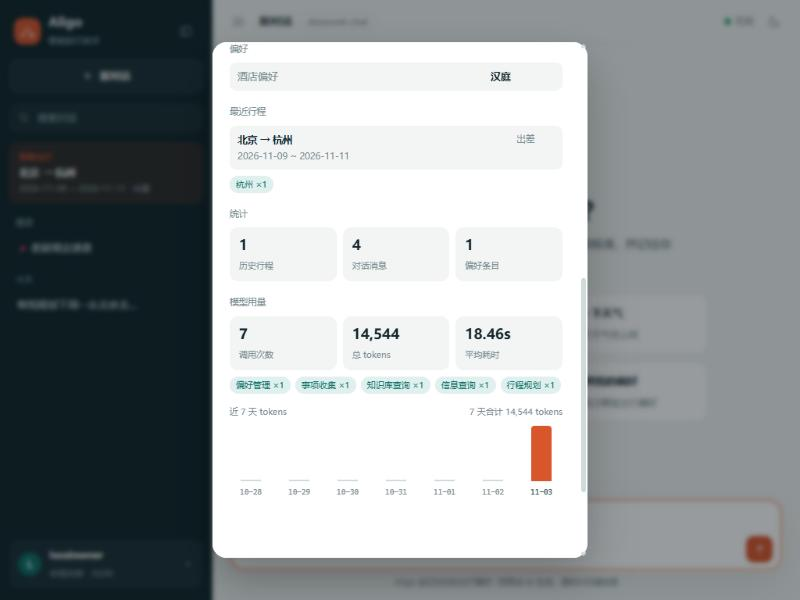
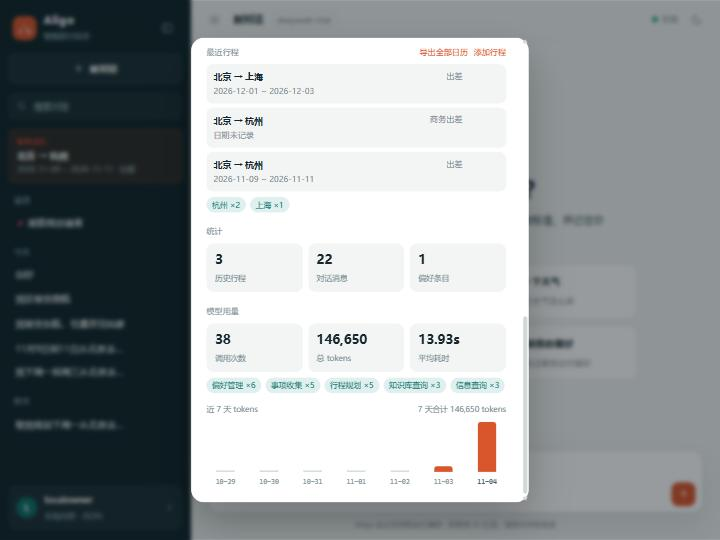
fix(web): 行程标题操作按钮间距并更新记忆面板截图 (#100)
- 「添加行程 / 导出全部日历」两个浮动按钮增加 8px 间距
- 刷新 README 记忆面板截图（含添加/编辑行程后的界面）
- CHANGELOG / README 截图说明更新

diff --git a/webapp/static/style.css b/webapp/static/style.css
@@ -1179,6 +1179,7 @@ mark { background: rgba(224, 85, 43, 0.2); color: inherit; border-radius: 3px; p
 /* 行程小节标题右侧的「导出全部日历」 */
 .trip-export {
   float: right;
+  margin-left: 8px;
   padding: 0;
   border: 0;
   background: none;

diff --git a/CHANGELOG.md b/CHANGELOG.md
@@ -33,6 +33,7 @@
 - CLI 行程去重：`python cli.py trips-dedupe <user_id>` 清理去重功能上线前已存在的重复行程（保留最早一条，统计同步更新）
 - 行程去重 / CLI 健壮性：删除前复核保留行程仍存在（并发删除时不误删仅剩副本），删除失败返回 1；PostgreSQL 配置错误回退本地 JSON 时拒绝执行；ICS 文本转义孤立 CR
 - 行程管理：记忆面板可删除误记录的行程（`DELETE /api/trips/{id}`），JSON / PostgreSQL 同步更新统计与常去目的地
+- 记忆面板「最近行程」标题右侧的「添加行程 / 导出全部日历」两个按钮增加间距（此前贴在一起难以区分），并更新 README 记忆面板截图
 - 会话导出 HTML：顶栏新增「导出对话（HTML）」，生成内嵌样式的单文件 HTML（去除执行路线与操作按钮，可直接分享 / 打印 / 离线查看）
 - 行程日历导出全部：`GET /api/trips/calendar` 把一个用户的历史行程合并为一个 `.ics`（缺少出发日期的跳过），记忆面板「最近行程」标题右侧新增「导出全部日历」
 - 手动添加行程：`POST /api/trips`（同路线 + 同起止日期自动去重，返回 `trip_id`），记忆面板「最近行程」新增「添加行程」表单（出发地 / 目的地 / 起止日期 / 目的）

diff --git a/README.md b/README.md
@@ -15,7 +15,7 @@
 | 对话与执行路线（浅色） | 深色模式 |
 |---|---|
 | ![对话与执行路线](docs/screenshots/webui-answer-light.jpg) | ![深色模式](docs/screenshots/webui-answer-dark.jpg) |
-| **记忆与用量面板**（偏好 / 行程 / 7 天趋势） | **欢迎页**（会话搜索 / 置顶） |
+| **记忆与用量面板**（行程 / 统计 / 7 天趋势） | **欢迎页**（会话搜索 / 置顶） |
 | ![记忆与用量面板](docs/screenshots/webui-memory.jpg) | ![欢迎页](docs/screenshots/webui-welcome.jpg) |
 
 ![知识库维护：查看 / 新增 / 删除知识片段](docs/screenshots/webui-knowledge.jpg)
